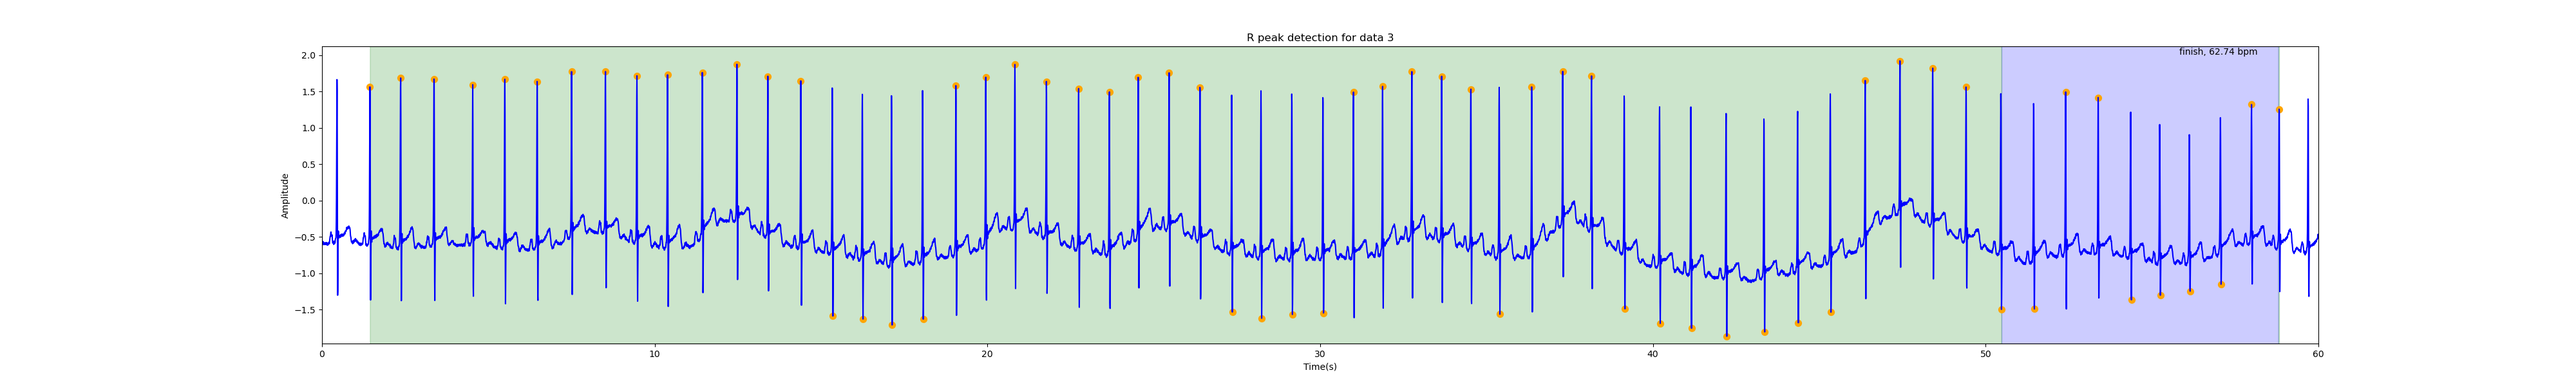
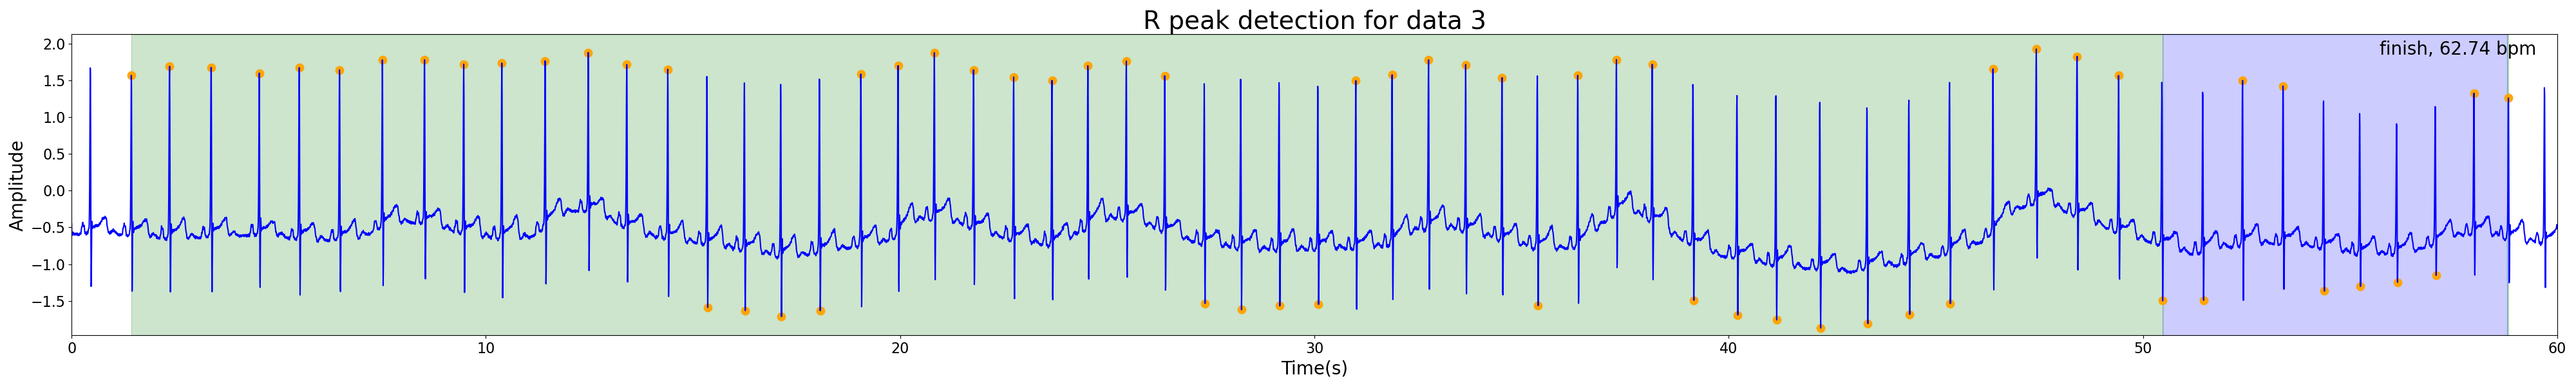
temp

diff --git a/main.py b/main.py
@@ -13,7 +13,7 @@ parser.add_argument('-c', '--config', required=False, is_config_file=True, help=
 
 # 基本参数
 parser.add_argument('--fs', type=int, default=200, help='sampling frequency of the data')
-parser.add_argument('--data_idx', type=int, nargs='+', required=True, help='index of the data to be processed')
+parser.add_argument('--data_path', type=str, default='data', help='index of the data to be processed')
 
 # 可视化参数
 parser.add_argument('--visible', action='store_true', help='whether to visualize the detection process and result')
@@ -52,7 +52,8 @@ parser.add_argument('--result_path', type=str, default='output', help='the folde
 args = parser.parse_args()
 
 fs = args.fs
-data_idxs = args.data_idx
+data_path = args.data_path
+data_idxs = [int(i.split('.')[0]) for i in os.listdir(data_path) if i.endswith('.txt')]
 
 visible = args.visible
 show_result = args.show_result
@@ -194,9 +195,9 @@ for data_idx in tqdm(data_idxs):
         y_max = np.max(data_all) + 0.2
         ax.set_xlim([0, len(data_all)/fs])
         ax.set_ylim([np.min(data_all), np.max(data_all)])
-        ax.set_xlabel('Time(s)')
-        ax.set_ylabel('Amplitude')
-        ax.set_title(f'R peak detection for data {data_idx}')
+        ax.set_xlabel('Time(s)', fontsize=20)
+        ax.set_ylabel('Amplitude', fontsize=20)
+        ax.set_title(f'R peak detection for data {data_idx}', fontsize=28)
         ax.autoscale(enable=False)
 
 
@@ -432,14 +433,17 @@ for data_idx in tqdm(data_idxs):
         ax.set_xlim([0, len(data_all)/fs])
         ax.set_ylim([y_min, y_max])
         ax.plot(np.arange(0,len(data_all))/fs, data_all, color='blue', linestyle='-', linewidth=1.5, label='ECG signal')
-        ax.scatter(QRS_old/fs, data_all[QRS_old], s=50, marker='o', color='orange')
+        ax.scatter(QRS_old/fs, data_all[QRS_old], s=80, marker='o', color='orange')
         for i in premature:
             ax.scatter(i/fs, y_max-0.1, s=50, marker='^', color='red')
-        ax.text(0.95, 0.98, text, horizontalalignment='center', verticalalignment='center', transform=ax.transAxes)
+        ax.text(0.96, 0.95, text, horizontalalignment='center', verticalalignment='center', transform=ax.transAxes, fontsize=20)
+        plt.xticks(fontsize=16)
+        plt.yticks(fontsize=16)
+        plt.tight_layout()
         plt.savefig(os.path.join(result_path, f'{data_idx}.png'))
-        plt.show(block=False)
-        plt.pause(5)
-        plt.close()
+        # plt.show(block=False)
+        # plt.pause(5)
+        # plt.close()
 
         
 
